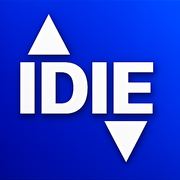
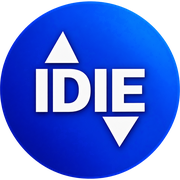
เปลี่ยนไอคอนเว็บเป็นตราวงกลม IDIE ชุดใหม่
สร้างครบทุกขนาดจากไฟล์เดียว ไม่ได้เปลี่ยนเฉพาะไอคอนแท็บ ไม่งั้นแท็บกับหน้าจอโฮม
มือถือจะเป็นคนละตรากัน

- ครอปพื้นโปร่งรอบวงกลมทิ้ง ไฟล์ที่ได้มาตราจริงกินแค่ 84% ของกรอบ พอย่อเหลือ
  16–32px ในแถบแท็บแล้วเล็กจนอ่านไม่ออก ครอปแล้วตราใหญ่ขึ้น 19% ในกรอบเท่าเดิม
- favicon 32/48 เก็บพื้นโปร่งไว้ วงกลมจึงลอยได้ทั้งธีมสว่างและธีมมืดของแถบแท็บ
- apple-touch-icon กับไอคอน manifest ถมพื้นขาว เพราะ iOS ถมพื้นโปร่งด้วยสีดำ
  ถ้าปล่อยไว้จะได้วงกลมน้ำเงินบนพื้นดำบนหน้าจอโฮม

diff --git a/index.html b/index.html
@@ -5,16 +5,19 @@
     <meta name="viewport" content="width=device-width, initial-scale=1.0" />
     <!--
       ไอคอนทุกขนาดสร้างจาก /images/brand/idie-icon-tile.png
-      ซึ่งครอปกลางภาพจาก idie-icon-source.png (ตราที่ IDIE ส่งมา ส.ค. 2026) ให้เป็นจัตุรัส
+      (ตราวงกลม IDIE ที่บริษัทส่งมา ก.ย. 2026 ครอปขอบโปร่งรอบ ๆ ออกแล้ว)
 
-      **ต้องทึบทั้งภาพ ห้ามมีพื้นโปร่ง** — เดิมวางตราแนวนอนกลางกรอบจัตุรัสแล้วเหลือ
-      พื้นโปร่ง 34% ผลคือ iOS ถมพื้นโปร่งของ apple-touch-icon ด้วยสีดำ ตราจึงมีแถบดำ
-      คาดบน-ล่างบนหน้าจอโฮม ส่วน manifest ประกาศพื้นหลังขาวจึงได้แถบขาวคนละสีกันอีก
-      การครอปให้เต็มขอบแก้ทั้งสองอย่าง และยังทำให้ตัวอักษรใหญ่ขึ้นในกรอบเท่าเดิมด้วย
+      **ครอปให้ตราชนขอบทั้งสี่ด้าน** — ไฟล์ที่ได้มาเหลือพื้นโปร่งรอบวงกลมด้านละ 8%
+      พอย่อลงเหลือ 16–32px ในแถบแท็บแล้ววงกลมเล็กจนอ่านตัวอักษรไม่ออก ครอปทิ้งแล้ว
+      ตราใหญ่ขึ้น 19% ในกรอบเท่าเดิม โดยไม่ต้องเปลี่ยนอาร์ตเวิร์ก
 
-      ครอปกลางได้เพราะอาร์ตเวิร์กอยู่กลางภาพ (x 195–600 จากความกว้าง 817)
-      กรอบจัตุรัสเก็บ x 133–683 จึงไม่โดนตัด — ถ้าเปลี่ยนตราใหม่ต้องวัดซ้ำก่อน
-      ระบบปฏิบัติการเป็นคนใส่ขอบมนให้เองอยู่แล้ว เราจึงไม่ต้องเว้นขอบมาให้
+      **พื้นโปร่งได้เฉพาะ favicon เท่านั้น** — ตราเป็นวงกลม มุมทั้งสี่จึงโปร่ง ซึ่งดีกับ
+      แท็บเบราว์เซอร์ เพราะวงกลมจะลอยอยู่บนแถบแท็บได้ทั้งธีมสว่างและธีมมืด
+
+      แต่ apple-touch-icon กับไอคอนใน manifest **ต้องทึบ** จึงถมพื้นขาวให้ก่อน —
+      iOS ถมพื้นโปร่งด้วยสีดำ ถ้าปล่อยโปร่งไว้จะได้วงกลมน้ำเงินบนพื้นดำบนหน้าจอโฮม
+      ส่วน manifest ประกาศ background_color เป็นขาว การถมขาวจึงทำให้ตรงกัน
+      ระบบปฏิบัติการใส่ขอบมนให้เองอยู่แล้ว เราจึงไม่ต้องเว้นขอบมาให้
 
       ขนาด 48 มีไว้ให้จอความละเอียดสูงที่วาดแท็บที่ 2x จะได้ไม่เบลอ
     -->
